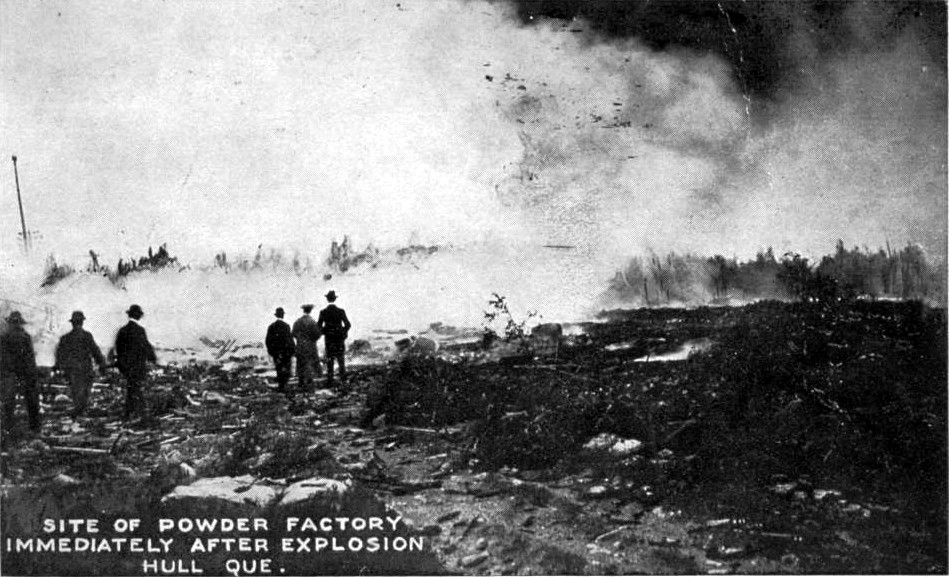
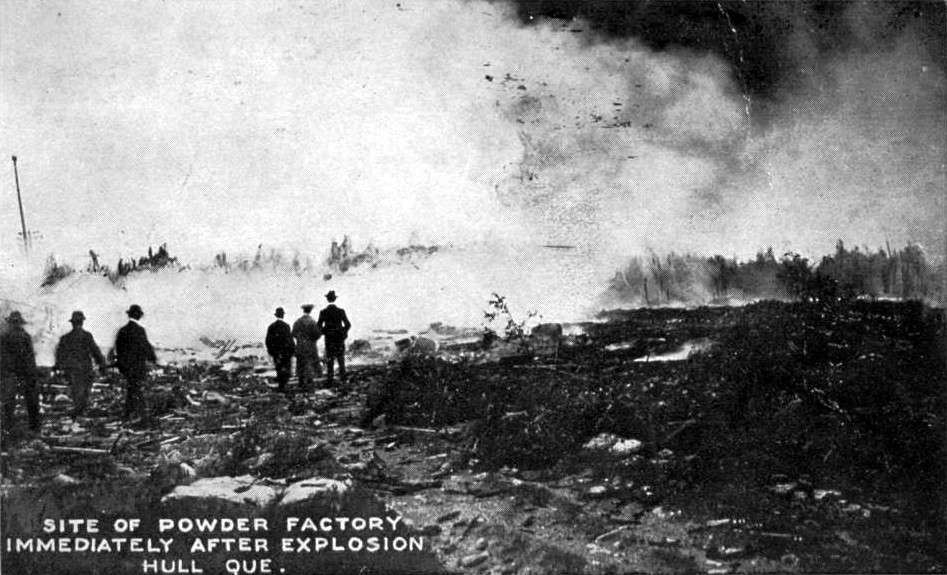
modified:   css/main.css 	modified:   images/hull-explosion/9906_2635574.jpg 	modified:   index.html

diff --git a/index.html b/index.html
@@ -18,12 +18,12 @@ description: A list of Forgotten Ottawa video transcripts.
 	</div>
 </div>
 
-<section id="latest-story" class="container-fluid my-5">
+<section id="latest-story" class="container-fluid my-5 index-height">
 	<div class="content-wrapper">
 		<div class="row align-items-center index-section g-4">
 			<div class="index-col col-md-6 order-2 order-md-1 text-center"> <!--d-flex justify-items-center align-items-center">-->
 				<a href="/stories/hull-explosion.html">
-					<img class="index-img img-fluid rounded" src="/images/hull-explosion/paper-image-3.jpg" alt="Latest story image">
+					<img class="index-img img-fluid rounded" src="/images/hull-explosion/9906_2635574.jpg" alt="Latest story image">
 				</a>
 			</div>
 			<div class="col-md-6 ps-md-5 order-1 order-md-2">

diff --git a/css/main.css b/css/main.css
@@ -593,12 +593,12 @@ ul.posts li {
 	background-color: rgb(33 33 33 / 0.3);
 }
 
-#latest-story .index-col {
+/* #latest-story .index-col {
     display: flex;
     align-items: center;
     justify-content: center;
-    overflow: hidden; /* prevents spill */
-}
+    overflow: hidden; /* prevents spill 
+} */
 
 #timeline {
 	background-color: rgba(65, 65, 65, 0.3);
